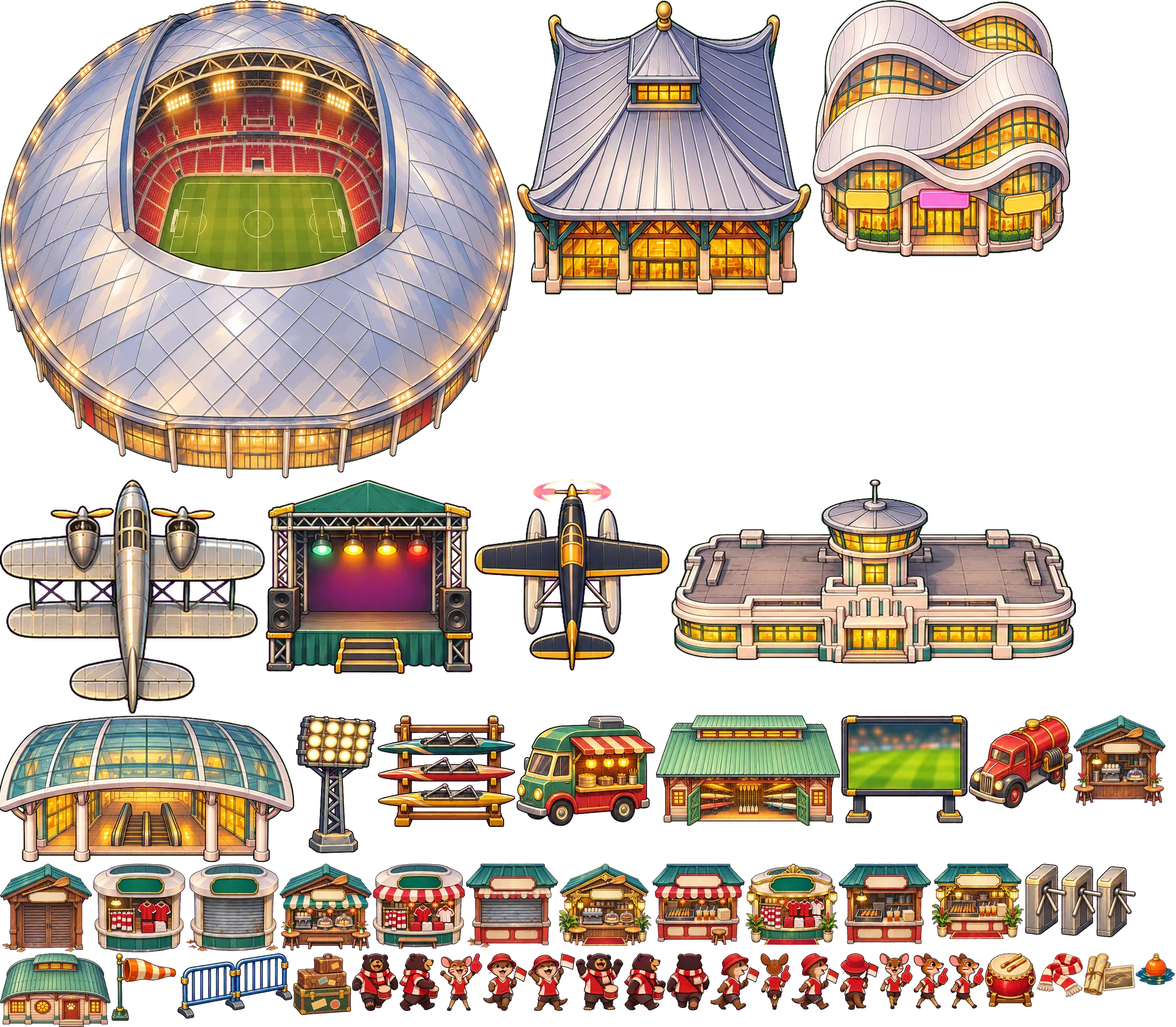
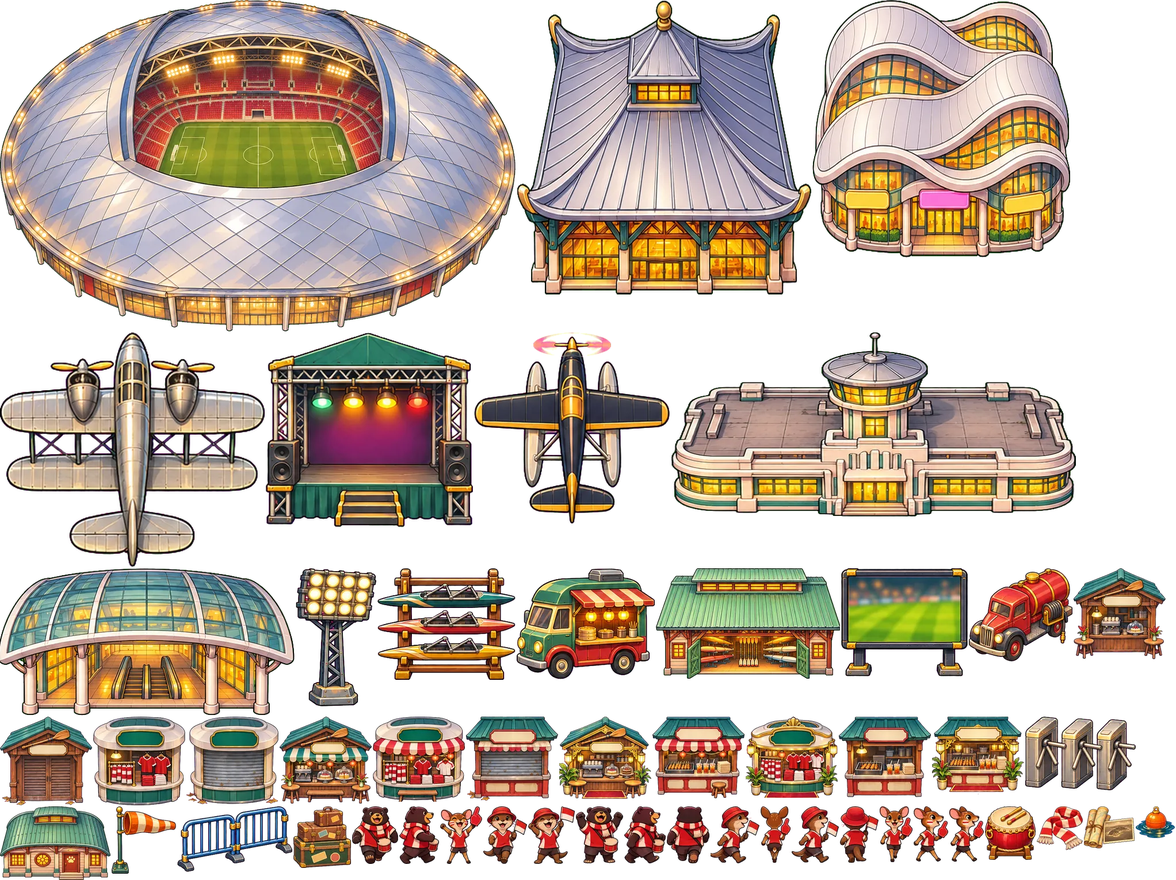
WIP Jade Street pass 18: the map no longer keeps district art decoded; dome packed at its footprint; hero acts in the job tier

diff --git a/lib/jade-art.ts b/lib/jade-art.ts
@@ -1,7 +1,7 @@
 // Generated by scripts/jade-art.py from the Codex paintings; do not edit by hand.
 // FRAMES: name -> [atlas, x, y, w, h] in atlas pixels (2 px per world unit). TEXTURES: seamless 256 px ground tiles.
 export const ATLASES = ['atlas-dora', 'atlas-enzo', 'atlas-dora2', 'atlas-enzo2', 'atlas-south', 'atlas-south2', 'atlas-empire', 'atlas-empire2', 'atlas-city2', 'atlas-far', 'atlas-far2', 'atlas-east', 'atlas-resort', 'atlas-resort2', 'atlas-east2', 'atlas-isle', 'atlas-isle2', 'atlas-land', 'atlas-cast-isle', 'atlas-cast-east', 'atlas-cast-resort', 'atlas-cast-far', 'atlas-cast-south', 'atlas-cast-town', 'atlas-city', 'atlas-rides', 'atlas-gear', 'atlas-jobs', 'atlas-aware', 'atlas-faces-isle', 'atlas-faces-east', 'atlas-faces-resort', 'atlas-faces-far', 'atlas-faces-south', 'atlas-faces-town', 'atlas-set', 'atlas-set2', 'atlas-folk', 'atlas-ui', 'atlas-sg', 'atlas-sg2', 'atlas-mg', 'atlas-props2', 'atlas-props', 'atlas-rides15', 'atlas-act16', 'atlas-cast16-far', 'atlas-cast16-south', 'atlas-stands16', 'atlas-lake16', 'atlas-ubin', 'atlas-boars', 'atlas-cast-ubin', 'atlas-act17', 'atlas-ui17', 'atlas-kallang', 'atlas-cast-kallang', 'atlas-act18', 'atlas-ui18'] as const;
-export const ATLAS_SIZE: Record<string, [number, number]> = {'atlas-ui18': [996, 128], 'atlas-act18': [1508, 120], 'atlas-cast-kallang': [2048, 648], 'atlas-kallang': [2044, 1786], 'atlas-ui17': [978, 128], 'atlas-act17': [1945, 239], 'atlas-cast-ubin': [2028, 774], 'atlas-boars': [2008, 229], 'atlas-ubin': [2019, 936], 'atlas-lake16': [864, 562], 'atlas-stands16': [1944, 333], 'atlas-cast16-south': [1423, 256], 'atlas-cast16-far': [1393, 256], 'atlas-act16': [1402, 113], 'atlas-rides15': [2048, 529], 'atlas-dora': [2048, 558], 'atlas-enzo': [2048, 558], 'atlas-dora2': [2048, 946], 'atlas-enzo2': [2048, 938], 'atlas-south': [2048, 1932], 'atlas-south2': [2048, 840], 'atlas-empire': [2048, 465], 'atlas-empire2': [2048, 1738], 'atlas-city2': [2048, 1928], 'atlas-far': [2048, 2448], 'atlas-far2': [2048, 2434], 'atlas-east': [2048, 1608], 'atlas-resort': [2048, 1092], 'atlas-resort2': [2048, 360], 'atlas-east2': [2048, 768], 'atlas-isle': [2048, 1802], 'atlas-isle2': [2048, 1135], 'atlas-land': [2048, 2308], 'atlas-cast-isle': [2048, 251], 'atlas-cast-east': [2048, 243], 'atlas-cast-resort': [2048, 145], 'atlas-cast-far': [2048, 267], 'atlas-cast-south': [2048, 234], 'atlas-cast-town': [2048, 1001], 'atlas-city': [2048, 4240], 'atlas-rides': [2048, 382], 'atlas-gear': [2048, 568], 'atlas-jobs': [2048, 1256], 'atlas-aware': [2048, 400], 'atlas-faces-isle': [2048, 514], 'atlas-faces-east': [2048, 772], 'atlas-faces-resort': [2048, 256], 'atlas-faces-far': [2048, 772], 'atlas-faces-south': [2048, 514], 'atlas-faces-town': [2048, 2814], 'atlas-set': [2048, 515], 'atlas-set2': [2048, 2406], 'atlas-folk': [2048, 2370], 'atlas-ui': [2048, 1793], 'atlas-sg': [2048, 1280], 'atlas-sg2': [2048, 398], 'atlas-mg': [2048, 1031], 'atlas-props2': [2048, 1474], 'atlas-props': [2048, 2074]};
+export const ATLAS_SIZE: Record<string, [number, number]> = {'atlas-ui18': [996, 128], 'atlas-act18': [1508, 120], 'atlas-cast-kallang': [2048, 648], 'atlas-kallang': [2044, 1530], 'atlas-ui17': [978, 128], 'atlas-act17': [1945, 239], 'atlas-cast-ubin': [2028, 774], 'atlas-boars': [2008, 229], 'atlas-ubin': [2019, 936], 'atlas-lake16': [864, 562], 'atlas-stands16': [1944, 333], 'atlas-cast16-south': [1423, 256], 'atlas-cast16-far': [1393, 256], 'atlas-act16': [1402, 113], 'atlas-rides15': [2048, 529], 'atlas-dora': [2048, 558], 'atlas-enzo': [2048, 558], 'atlas-dora2': [2048, 946], 'atlas-enzo2': [2048, 938], 'atlas-south': [2048, 1932], 'atlas-south2': [2048, 840], 'atlas-empire': [2048, 465], 'atlas-empire2': [2048, 1738], 'atlas-city2': [2048, 1928], 'atlas-far': [2048, 2448], 'atlas-far2': [2048, 2434], 'atlas-east': [2048, 1608], 'atlas-resort': [2048, 1092], 'atlas-resort2': [2048, 360], 'atlas-east2': [2048, 768], 'atlas-isle': [2048, 1802], 'atlas-isle2': [2048, 1135], 'atlas-land': [2048, 2308], 'atlas-cast-isle': [2048, 251], 'atlas-cast-east': [2048, 243], 'atlas-cast-resort': [2048, 145], 'atlas-cast-far': [2048, 267], 'atlas-cast-south': [2048, 234], 'atlas-cast-town': [2048, 1001], 'atlas-city': [2048, 4240], 'atlas-rides': [2048, 382], 'atlas-gear': [2048, 568], 'atlas-jobs': [2048, 1256], 'atlas-aware': [2048, 400], 'atlas-faces-isle': [2048, 514], 'atlas-faces-east': [2048, 772], 'atlas-faces-resort': [2048, 256], 'atlas-faces-far': [2048, 772], 'atlas-faces-south': [2048, 514], 'atlas-faces-town': [2048, 2814], 'atlas-set': [2048, 515], 'atlas-set2': [2048, 2406], 'atlas-folk': [2048, 2370], 'atlas-ui': [2048, 1793], 'atlas-sg': [2048, 1280], 'atlas-sg2': [2048, 398], 'atlas-mg': [2048, 1031], 'atlas-props2': [2048, 1474], 'atlas-props': [2048, 2074]};
 export const FRAMES: Record<string, [number, number, number, number, number]> = {
   'angpao': [43, 784, 2018, 44, 34],
   'atom': [5, 316, 432, 140, 168],
@@ -2503,56 +2503,56 @@ export const FRAMES: Record<string, [number, number, number, number, number]> = 
   'mi-tower': [54, 384, 0, 102, 128],
   'mi-wayang': [54, 488, 0, 125, 128],
   'pin-boar': [54, 615, 0, 101, 128],
-  'biz-hubsatay-0': [55, 810, 1502, 160, 146],
-  'biz-hubsatay-1': [55, 1458, 1502, 160, 140],
-  'biz-hubsatay-2': [55, 1134, 1502, 160, 142],
-  'biz-hubsatay-3': [55, 1620, 1502, 160, 135],
-  'biz-rowcafe-0': [55, 0, 1502, 160, 154],
-  'biz-rowcafe-1': [55, 1866, 1244, 160, 158],
-  'biz-rowcafe-2': [55, 486, 1502, 160, 151],
-  'biz-rowcafe-3': [55, 972, 1502, 160, 143],
-  'biz-wavekiosk-0': [55, 324, 1502, 160, 152],
-  'biz-wavekiosk-1': [55, 162, 1502, 160, 154],
-  'biz-wavekiosk-2': [55, 648, 1502, 160, 148],
-  'biz-wavekiosk-3': [55, 1296, 1502, 160, 141],
-  'folk-fanbear-down': [55, 612, 1658, 80, 100],
-  'folk-fanbear-hop': [55, 1001, 1658, 82, 99],
-  'folk-fanbear-side-0': [55, 1085, 1658, 72, 99],
-  'folk-fanbear-side-1': [55, 694, 1658, 69, 100],
-  'folk-fanbear-up': [55, 1159, 1658, 74, 99],
-  'folk-fankancil-down': [55, 1529, 1658, 57, 97],
-  'folk-fankancil-hop': [55, 765, 1658, 73, 100],
-  'folk-fankancil-side-0': [55, 1588, 1658, 60, 96],
-  'folk-fankancil-side-1': [55, 1650, 1658, 60, 96],
-  'folk-fankancil-up': [55, 1322, 1658, 52, 98],
-  'folk-fanotter-down': [55, 840, 1658, 76, 100],
-  'folk-fanotter-hop': [55, 918, 1658, 81, 100],
-  'folk-fanotter-side-0': [55, 1235, 1658, 85, 99],
-  'folk-fanotter-side-1': [55, 1376, 1658, 82, 98],
-  'folk-fanotter-up': [55, 1460, 1658, 67, 98],
-  'kal-airport': [55, 1166, 834, 704, 320],
-  'kal-barrier': [55, 308, 1658, 200, 114],
-  'kal-boathouse': [55, 1140, 1244, 320, 192],
-  'kal-bowser': [55, 1684, 1244, 180, 162],
-  'kal-buoy': [55, 1974, 1658, 68, 55],
-  'kal-charts': [55, 1884, 1658, 88, 73],
-  'kal-drum': [55, 1712, 1658, 88, 93],
-  'kal-floodlight': [55, 514, 1244, 140, 240],
-  'kal-foodtruck': [55, 898, 1244, 240, 193],
+  'biz-hubsatay-0': [55, 810, 1246, 160, 146],
+  'biz-hubsatay-1': [55, 1458, 1246, 160, 140],
+  'biz-hubsatay-2': [55, 1134, 1246, 160, 142],
+  'biz-hubsatay-3': [55, 1620, 1246, 160, 135],
+  'biz-rowcafe-0': [55, 0, 1246, 160, 154],
+  'biz-rowcafe-1': [55, 1866, 988, 160, 158],
+  'biz-rowcafe-2': [55, 486, 1246, 160, 151],
+  'biz-rowcafe-3': [55, 972, 1246, 160, 143],
+  'biz-wavekiosk-0': [55, 324, 1246, 160, 152],
+  'biz-wavekiosk-1': [55, 162, 1246, 160, 154],
+  'biz-wavekiosk-2': [55, 648, 1246, 160, 148],
+  'biz-wavekiosk-3': [55, 1296, 1246, 160, 141],
+  'folk-fanbear-down': [55, 612, 1402, 80, 100],
+  'folk-fanbear-hop': [55, 1001, 1402, 82, 99],
+  'folk-fanbear-side-0': [55, 1085, 1402, 72, 99],
+  'folk-fanbear-side-1': [55, 694, 1402, 69, 100],
+  'folk-fanbear-up': [55, 1159, 1402, 74, 99],
+  'folk-fankancil-down': [55, 1529, 1402, 57, 97],
+  'folk-fankancil-hop': [55, 765, 1402, 73, 100],
+  'folk-fankancil-side-0': [55, 1588, 1402, 60, 96],
+  'folk-fankancil-side-1': [55, 1650, 1402, 60, 96],
+  'folk-fankancil-up': [55, 1322, 1402, 52, 98],
+  'folk-fanotter-down': [55, 840, 1402, 76, 100],
+  'folk-fanotter-hop': [55, 918, 1402, 81, 100],
+  'folk-fanotter-side-0': [55, 1235, 1402, 85, 99],
+  'folk-fanotter-side-1': [55, 1376, 1402, 82, 98],
+  'folk-fanotter-up': [55, 1460, 1402, 67, 98],
+  'kal-airport': [55, 1166, 578, 704, 320],
+  'kal-barrier': [55, 308, 1402, 200, 114],
+  'kal-boathouse': [55, 1140, 988, 320, 192],
+  'kal-bowser': [55, 1684, 988, 180, 162],
+  'kal-buoy': [55, 1974, 1402, 68, 55],
+  'kal-charts': [55, 1884, 1402, 88, 73],
+  'kal-drum': [55, 1712, 1402, 88, 93],
+  'kal-floodlight': [55, 514, 988, 140, 240],
+  'kal-foodtruck': [55, 898, 988, 240, 193],
   'kal-indoor': [55, 898, 0, 512, 512],
   'kal-mall': [55, 1412, 0, 448, 448],
-  'kal-plane': [55, 0, 834, 460, 408],
-  'kal-scarf': [55, 1802, 1658, 80, 76],
-  'kal-screen': [55, 1462, 1244, 220, 188],
-  'kal-seaplane': [55, 824, 834, 340, 332],
-  'kal-shells': [55, 656, 1244, 240, 194],
-  'kal-stadium': [55, 0, 0, 896, 832],
-  'kal-stage': [55, 462, 834, 360, 339],
-  'kal-suitcases': [55, 510, 1658, 100, 107],
-  'kal-turnstile': [55, 1782, 1502, 192, 128],
-  'kal-windsock': [55, 194, 1658, 112, 117],
-  'kallang-stn': [55, 0, 1244, 512, 256],
-  'safe-kallang': [55, 0, 1658, 192, 128],
+  'kal-plane': [55, 0, 578, 460, 408],
+  'kal-scarf': [55, 1802, 1402, 80, 76],
+  'kal-screen': [55, 1462, 988, 220, 188],
+  'kal-seaplane': [55, 824, 578, 340, 332],
+  'kal-shells': [55, 656, 988, 240, 194],
+  'kal-stadium': [55, 0, 0, 896, 576],
+  'kal-stage': [55, 462, 578, 360, 339],
+  'kal-suitcases': [55, 510, 1402, 100, 107],
+  'kal-turnstile': [55, 1782, 1246, 192, 128],
+  'kal-windsock': [55, 194, 1402, 112, 117],
+  'kallang-stn': [55, 0, 988, 512, 256],
+  'safe-kallang': [55, 0, 1402, 192, 128],
   'face-biru': [56, 0, 0, 238, 256],
   'face-biru-cross': [56, 240, 0, 236, 256],
   'face-biru-happy': [56, 478, 0, 237, 256],
@@ -5163,7 +5163,7 @@ export const FILL: Record<string, number> = {
   'kal-screen': 0.821,
   'kal-seaplane': 0.426,
   'kal-shells': 0.627,
-  'kal-stadium': 0.781,
+  'kal-stadium': 0.782,
   'kal-stage': 0.865,
   'kal-suitcases': 0.786,
   'kal-turnstile': 0.761,
@@ -5238,4 +5238,4 @@ export const FILL: Record<string, number> = {
 export const TEXTURES = ['road', 'walk', 'plaza', 'grass', 'canal', 'plank', 'temple', 'sea', 'dock', 'neon', 'path', 'cobble', 'xway', 'hdb', 'rubber', 'granite', 'deck', 'bay', 'india', 'glam', 'sand', 'resort', 'lagoon', 'fort', 'katong', 'orchard', 'tarmac', 'cycle', 'jewel', 'changi', 'tiong', 'quay', 'jurong', 'garden', 'dirt', 'kampong', 'mud', 'forest', 'quarry', 'rock', 'hub', 'prom', 'apron', 'basin'] as const;
 export const PLAIN: Record<string, [number, number]> = {'bg-stall-kallang': [1536, 1024], 'bg-chapter-11': [1536, 1024], 'bg-stall-pulau': [1536, 1024], 'bg-chapter-10': [1536, 1024], 'bg-title': [1536, 1024], 'bg-mg-lock': [1280, 853], 'bg-mg-wire': [1280, 853], 'bg-mg-switch': [1280, 853], 'bg-mg-wok': [1280, 853], 'bg-mg-board': [1280, 853], 'bg-mg-haggle': [1280, 853], 'bg-mg-kopi': [1280, 853], 'bg-mg-safe': [1280, 853], 'bg-map-paper': [1024, 683], 'bg-loading': [1280, 853], 'bg-stall-market': [1280, 853], 'bg-stall-temple': [1280, 853], 'bg-stall-canal': [1280, 853], 'bg-stall-docks': [1280, 853], 'bg-stall-arcade': [1280, 853], 'bg-story-1': [1280, 853], 'bg-story-2': [1280, 853], 'bg-story-3': [1280, 853], 'bg-story-4': [1280, 853], 'bg-chapter-1': [1280, 853], 'bg-chapter-2': [1280, 853], 'bg-chapter-3': [1280, 853], 'bg-chapter-4': [1280, 853], 'bg-chapter-5': [1280, 853], 'bg-end-1': [1280, 853], 'bg-end-2': [1280, 853], 'bg-end-3': [1280, 853], 'bg-gadget-shop': [1280, 853], 'bg-chapter-6': [1280, 853], 'bg-end-4': [1280, 853], 'bg-mrt-ride': [1280, 853], 'bg-stall-heartland': [1280, 853], 'bg-stall-bay': [1280, 853], 'bg-chapter-7': [1280, 853], 'bg-end-5': [1280, 853], 'bg-cable-ride': [1280, 853], 'bg-stall-india': [1280, 853], 'bg-stall-glam': [1280, 853], 'bg-stall-resort': [1280, 853], 'bg-empire': [1280, 853], 'bg-chapter-8': [1280, 853], 'bg-end-6': [1280, 853], 'bg-stall-katong': [1280, 853], 'bg-stall-orchard': [1280, 853], 'bg-stall-changi': [1280, 853], 'bg-chapter-9': [1280, 853], 'bg-end-7': [1280, 853], 'bg-stall-tiong': [1280, 853], 'bg-stall-quay': [1280, 853], 'bg-stall-jurong': [1280, 853]};
 /** a content hash of every file in public/art/jade-street/, sent as ?v= so the art can be cached for a year */
-export const VER: Record<string, string> = {'bg-stall-kallang': '5f185fe36b', 'bg-chapter-11': '12fb44814b', 'tex-basin': 'c9c1f2261e', 'tex-apron': '323078ac62', 'tex-prom': '5611f4129c', 'tex-hub': '7886be57ab', 'atlas-ui18': '43e4150895', 'atlas-act18': '51b4e5b9eb', 'atlas-cast-kallang': '178f7a33a4', 'atlas-kallang': 'eb33cac7c5', 'bg-stall-pulau': 'fb3d104962', 'bg-chapter-10': '8f7697f148', 'tex-rock': 'e14a0fa8a2', 'tex-quarry': 'bf95ef713f', 'tex-forest': '86584e2a5c', 'tex-mud': '05f8765082', 'tex-kampong': 'b8131c6fd2', 'tex-dirt': '12ab24649e', 'atlas-ui17': 'dd53c38d34', 'atlas-act17': 'da2d18204c', 'atlas-cast-ubin': '42901e7b58', 'atlas-boars': 'c1ea6f3cc5', 'atlas-ubin': '489a9a7865', 'atlas-lake16': 'b9863c6890', 'atlas-stands16': '73a81e072c', 'atlas-cast16-south': 'b9dd583554', 'atlas-cast16-far': '066ca3c6b6', 'atlas-act16': '2bb55cf0ae', 'atlas-rides15': 'fe909ed773', 'atlas-aware': '6c05ff527e', 'atlas-cast-east': '6993b3868c', 'atlas-cast-far': 'be68f6fb67', 'atlas-cast-isle': 'd6137093d7', 'atlas-cast-resort': '04a51d1d1f', 'atlas-cast-south': '73c3edc72c', 'atlas-cast-town': 'e3e8483794', 'atlas-city': '9d3e5e0e1e', 'atlas-city2': 'a7705a2a8c', 'atlas-dora': 'b9ec3e274b', 'atlas-dora2': '43fff573e2', 'atlas-east': 'c9c950a198', 'atlas-east2': 'b28ab30119', 'atlas-empire': '356b94eb1d', 'atlas-empire2': 'c5f49739fe', 'atlas-enzo': 'bedcb9aa04', 'atlas-enzo2': '698fbcee4a', 'atlas-faces-east': '993c08866d', 'atlas-faces-far': '0b5b95dbbb', 'atlas-faces-isle': '65004845ea', 'atlas-faces-resort': 'f4133d9046', 'atlas-faces-south': '6fcdc446e1', 'atlas-faces-town': '93652e9860', 'atlas-far': '83c801daa9', 'atlas-far2': 'cd584caccd', 'atlas-folk': 'b236b797c5', 'atlas-gear': 'e7536b9f8c', 'atlas-isle': '4fecc0ca2d', 'atlas-isle2': 'b4715aee8a', 'atlas-jobs': 'c3b00cb13a', 'atlas-land': 'e7dd7e81b0', 'atlas-mg': '64874661f8', 'atlas-props': '512513e99b', 'atlas-props2': 'e91c1da3d2', 'atlas-resort': '8bee077388', 'atlas-resort2': 'cadf754c98', 'atlas-rides': 'd0cce2048a', 'atlas-set': 'a3616aef03', 'atlas-set2': 'bdfe1854db', 'atlas-sg': '11d257b248', 'atlas-sg2': 'b7bd370468', 'atlas-south': 'dc4ba8a7e4', 'atlas-south2': '4964999b2d', 'atlas-ui': '39055c0ebe', 'bg-cable-ride': '0018d7f206', 'bg-chapter-1': '39e95b70e2', 'bg-chapter-2': 'c6eae4e23b', 'bg-chapter-3': 'e473dea1ed', 'bg-chapter-4': '2d8f49eb39', 'bg-chapter-5': '46e0c818bf', 'bg-chapter-6': '1cadb76848', 'bg-chapter-7': '151661fa10', 'bg-chapter-8': '8de0d54485', 'bg-chapter-9': 'fedfc885e5', 'bg-empire': '9059bb5b25', 'bg-end-1': '41d3829fd8', 'bg-end-2': '7a6979ac8b', 'bg-end-3': '0f098b8291', 'bg-end-4': '6e947828ba', 'bg-end-5': 'f23fd9f478', 'bg-end-6': 'f2e14dcedb', 'bg-end-7': '9811890a23', 'bg-gadget-shop': '9e43ee5ca2', 'bg-loading': '74ca740d3f', 'bg-map-paper': '196bbb2f61', 'bg-mg-board': '58c9ac51f6', 'bg-mg-haggle': '0be12eb299', 'bg-mg-kopi': '2d37fe15be', 'bg-mg-lock': '54f79c464e', 'bg-mg-safe': 'd992489153', 'bg-mg-switch': 'dfb6f981ad', 'bg-mg-wire': '2fb8c43ff3', 'bg-mg-wok': '5ec96291c1', 'bg-mrt-ride': '2c3fcf70b2', 'bg-stall-arcade': '4069370f26', 'bg-stall-bay': 'ead1c42631', 'bg-stall-canal': '9fa618250b', 'bg-stall-changi': 'f23566cda1', 'bg-stall-docks': 'd2757a418e', 'bg-stall-glam': '0318c8fa67', 'bg-stall-heartland': '8e2d25dae4', 'bg-stall-india': '85a7343c38', 'bg-stall-jurong': '610c6341bd', 'bg-stall-katong': '3458759355', 'bg-stall-market': '2ee08500da', 'bg-stall-orchard': 'e36c5aefb2', 'bg-stall-quay': 'c920af8561', 'bg-stall-resort': '2be8064c28', 'bg-stall-temple': '8d770b42ad', 'bg-stall-tiong': '7dc0dd1982', 'bg-story-1': '495a2313c5', 'bg-story-2': '38dc31aa0a', 'bg-story-3': 'f0d40a8b40', 'bg-story-4': '9e776c0031', 'bg-title': 'f7074c001b', 'tex-bay': '2b2ead15a6', 'tex-canal': '984c616bc3', 'tex-changi': 'd0d210aa4d', 'tex-cobble': 'ffa35bac89', 'tex-cycle': '4e8d4943bd', 'tex-deck': 'feaa49ab7e', 'tex-dock': '56cedf773c', 'tex-fort': '6cfe70f213', 'tex-garden': '8de5353f74', 'tex-glam': '12aa23af36', 'tex-granite': 'b5d611ddf5', 'tex-grass': '2b40c03b43', 'tex-hdb': 'cfe16c39ff', 'tex-india': '322ec75d2a', 'tex-jewel': 'f413902539', 'tex-jurong': 'dce899eb4a', 'tex-katong': '5ca9995443', 'tex-lagoon': '7194978be9', 'tex-neon': '7cefd7035d', 'tex-orchard': '71c2f97876', 'tex-path': '7185e5fd49', 'tex-plank': '39a9bfb3c3', 'tex-plaza': 'd818f31ee6', 'tex-quay': '7b61a601e8', 'tex-resort': '9323ea7a70', 'tex-road': 'df2a879824', 'tex-rubber': 'af7f675c91', 'tex-sand': 'f2b51bd2fa', 'tex-sea': '33c4a10f2d', 'tex-tarmac': 'e44e0bef07', 'tex-temple': '2d4d31a220', 'tex-tiong': '53a74b805f', 'tex-walk': '7059e943c6', 'tex-xway': 'b394d5c6d0', 'ui-btn-jade': '0575db29d5', 'ui-btn-red': 'b38696fe12', 'ui-lantern-off': 'aa12a882a8', 'ui-lantern-on': 'ae946067fe', 'ui-map-frame': 'ebc4710313', 'ui-plaque-jade': 'e6217f6c1b', 'ui-plaque-red': 'a8a020c2b2', 'ui-ring': 'f0ab8b644c'};
+export const VER: Record<string, string> = {'bg-stall-kallang': '5f185fe36b', 'bg-chapter-11': '12fb44814b', 'tex-basin': 'c9c1f2261e', 'tex-apron': '323078ac62', 'tex-prom': '5611f4129c', 'tex-hub': '7886be57ab', 'atlas-ui18': '43e4150895', 'atlas-act18': '51b4e5b9eb', 'atlas-cast-kallang': '178f7a33a4', 'atlas-kallang': 'fb54dd73ba', 'bg-stall-pulau': 'fb3d104962', 'bg-chapter-10': '8f7697f148', 'tex-rock': 'e14a0fa8a2', 'tex-quarry': 'bf95ef713f', 'tex-forest': '86584e2a5c', 'tex-mud': '05f8765082', 'tex-kampong': 'b8131c6fd2', 'tex-dirt': '12ab24649e', 'atlas-ui17': 'dd53c38d34', 'atlas-act17': 'da2d18204c', 'atlas-cast-ubin': '42901e7b58', 'atlas-boars': 'c1ea6f3cc5', 'atlas-ubin': '489a9a7865', 'atlas-lake16': 'b9863c6890', 'atlas-stands16': '73a81e072c', 'atlas-cast16-south': 'b9dd583554', 'atlas-cast16-far': '066ca3c6b6', 'atlas-act16': '2bb55cf0ae', 'atlas-rides15': 'fe909ed773', 'atlas-aware': '6c05ff527e', 'atlas-cast-east': '6993b3868c', 'atlas-cast-far': 'be68f6fb67', 'atlas-cast-isle': 'd6137093d7', 'atlas-cast-resort': '04a51d1d1f', 'atlas-cast-south': '73c3edc72c', 'atlas-cast-town': 'e3e8483794', 'atlas-city': '9d3e5e0e1e', 'atlas-city2': 'a7705a2a8c', 'atlas-dora': 'b9ec3e274b', 'atlas-dora2': '43fff573e2', 'atlas-east': 'c9c950a198', 'atlas-east2': 'b28ab30119', 'atlas-empire': '356b94eb1d', 'atlas-empire2': 'c5f49739fe', 'atlas-enzo': 'bedcb9aa04', 'atlas-enzo2': '698fbcee4a', 'atlas-faces-east': '993c08866d', 'atlas-faces-far': '0b5b95dbbb', 'atlas-faces-isle': '65004845ea', 'atlas-faces-resort': 'f4133d9046', 'atlas-faces-south': '6fcdc446e1', 'atlas-faces-town': '93652e9860', 'atlas-far': '83c801daa9', 'atlas-far2': 'cd584caccd', 'atlas-folk': 'b236b797c5', 'atlas-gear': 'e7536b9f8c', 'atlas-isle': '4fecc0ca2d', 'atlas-isle2': 'b4715aee8a', 'atlas-jobs': 'c3b00cb13a', 'atlas-land': 'e7dd7e81b0', 'atlas-mg': '64874661f8', 'atlas-props': '512513e99b', 'atlas-props2': 'e91c1da3d2', 'atlas-resort': '8bee077388', 'atlas-resort2': 'cadf754c98', 'atlas-rides': 'd0cce2048a', 'atlas-set': 'a3616aef03', 'atlas-set2': 'bdfe1854db', 'atlas-sg': '11d257b248', 'atlas-sg2': 'b7bd370468', 'atlas-south': 'dc4ba8a7e4', 'atlas-south2': '4964999b2d', 'atlas-ui': '39055c0ebe', 'bg-cable-ride': '0018d7f206', 'bg-chapter-1': '39e95b70e2', 'bg-chapter-2': 'c6eae4e23b', 'bg-chapter-3': 'e473dea1ed', 'bg-chapter-4': '2d8f49eb39', 'bg-chapter-5': '46e0c818bf', 'bg-chapter-6': '1cadb76848', 'bg-chapter-7': '151661fa10', 'bg-chapter-8': '8de0d54485', 'bg-chapter-9': 'fedfc885e5', 'bg-empire': '9059bb5b25', 'bg-end-1': '41d3829fd8', 'bg-end-2': '7a6979ac8b', 'bg-end-3': '0f098b8291', 'bg-end-4': '6e947828ba', 'bg-end-5': 'f23fd9f478', 'bg-end-6': 'f2e14dcedb', 'bg-end-7': '9811890a23', 'bg-gadget-shop': '9e43ee5ca2', 'bg-loading': '74ca740d3f', 'bg-map-paper': '196bbb2f61', 'bg-mg-board': '58c9ac51f6', 'bg-mg-haggle': '0be12eb299', 'bg-mg-kopi': '2d37fe15be', 'bg-mg-lock': '54f79c464e', 'bg-mg-safe': 'd992489153', 'bg-mg-switch': 'dfb6f981ad', 'bg-mg-wire': '2fb8c43ff3', 'bg-mg-wok': '5ec96291c1', 'bg-mrt-ride': '2c3fcf70b2', 'bg-stall-arcade': '4069370f26', 'bg-stall-bay': 'ead1c42631', 'bg-stall-canal': '9fa618250b', 'bg-stall-changi': 'f23566cda1', 'bg-stall-docks': 'd2757a418e', 'bg-stall-glam': '0318c8fa67', 'bg-stall-heartland': '8e2d25dae4', 'bg-stall-india': '85a7343c38', 'bg-stall-jurong': '610c6341bd', 'bg-stall-katong': '3458759355', 'bg-stall-market': '2ee08500da', 'bg-stall-orchard': 'e36c5aefb2', 'bg-stall-quay': 'c920af8561', 'bg-stall-resort': '2be8064c28', 'bg-stall-temple': '8d770b42ad', 'bg-stall-tiong': '7dc0dd1982', 'bg-story-1': '495a2313c5', 'bg-story-2': '38dc31aa0a', 'bg-story-3': 'f0d40a8b40', 'bg-story-4': '9e776c0031', 'bg-title': 'f7074c001b', 'tex-bay': '2b2ead15a6', 'tex-canal': '984c616bc3', 'tex-changi': 'd0d210aa4d', 'tex-cobble': 'ffa35bac89', 'tex-cycle': '4e8d4943bd', 'tex-deck': 'feaa49ab7e', 'tex-dock': '56cedf773c', 'tex-fort': '6cfe70f213', 'tex-garden': '8de5353f74', 'tex-glam': '12aa23af36', 'tex-granite': 'b5d611ddf5', 'tex-grass': '2b40c03b43', 'tex-hdb': 'cfe16c39ff', 'tex-india': '322ec75d2a', 'tex-jewel': 'f413902539', 'tex-jurong': 'dce899eb4a', 'tex-katong': '5ca9995443', 'tex-lagoon': '7194978be9', 'tex-neon': '7cefd7035d', 'tex-orchard': '71c2f97876', 'tex-path': '7185e5fd49', 'tex-plank': '39a9bfb3c3', 'tex-plaza': 'd818f31ee6', 'tex-quay': '7b61a601e8', 'tex-resort': '9323ea7a70', 'tex-road': 'df2a879824', 'tex-rubber': 'af7f675c91', 'tex-sand': 'f2b51bd2fa', 'tex-sea': '33c4a10f2d', 'tex-tarmac': 'e44e0bef07', 'tex-temple': '2d4d31a220', 'tex-tiong': '53a74b805f', 'tex-walk': '7059e943c6', 'tex-xway': 'b394d5c6d0', 'ui-btn-jade': '0575db29d5', 'ui-btn-red': 'b38696fe12', 'ui-lantern-off': 'aa12a882a8', 'ui-lantern-on': 'ae946067fe', 'ui-map-frame': 'ebc4710313', 'ui-plaque-jade': 'e6217f6c1b', 'ui-plaque-red': 'a8a020c2b2', 'ui-ring': 'f0ab8b644c'};

diff --git a/lib/jade-scene.ts b/lib/jade-scene.ts
@@ -5,7 +5,7 @@
 // districts, dust and sparkles; game feel (shake, hit-stop, debris, speed lines) is in lib/jade-juice.ts and the set
 // pieces, the finale and the business stalls are drawn by lib/jade-setdraw.ts. Every picture is a Codex painting from the atlases in public/art/jade-street/.
 import { FRAMES, ATLASES, VER } from './jade-art.js';
-import { EAGER, ART_BUDGET, decodedBytes } from './jade-load.js';
+import { EAGER, ART_BUDGET, decodedBytes, tierOf } from './jade-load.js';
 import { T, W, H, G, OW, CT_H, EAST_X0, EAST_SPLIT, FAR_X0, FAR_SPLIT, CHANGI_X0, SOUTH_X0, SOUTH_X1, TIONG_X0, QUAY_X0, UBIN_X0, UBIN_X1, UBIN_Y0, GROUND_NAMES, F_ROOF, districtAt, type City, type District } from './jade-city.js';
 import { unmvT } from './jade-layout.js';
 import { F_XWAY } from './jade-island.js';
@@ -58,6 +58,9 @@ export const artMissing = new Set<string>();
 let missed = false;
 /** the maps paint the whole island: a picture missing there is not asked for (it would pull in every district) */
 let quietMiss = false;
+/** a district's own atlases (not the core, the job tier or the mini-games'): the maps' painting does not count as using
+ *  one, or painting the minimap every few seconds would keep every district it has seen decoded (the memory soak) */
+const ZONED = ATLASES.map(a => !['core', 'job', 'mini'].includes(tierOf(a)));
 /** was a picture missing since the last call (for a canvas painted outside the scene, such as the painted map) */
 export const takeMissed = () => { const m = missed; missed = false; return m; };
 /** the minimap's map: strip width (px), columns painted at a time, and ms of painting a frame */
@@ -428,7 +431,7 @@ export class Scene {
   dropChunk(k: number) { const v = this.chunks.get(k); if (v) { freeCanvas(v.c); this.chunks.delete(k); } }
   /** forget every ground chunk and the minimap's map (their canvases freed) */
   dropAll() { for (const k of [...this.chunks.keys()]) this.dropChunk(k); this.dropMap(); }
-  dropMap() { for (const st of this.mapStrips) freeCanvas(st.c); this.mapStrips = []; if (this.mapNext) for (const st of this.mapNext.strips) freeCanvas(st.c); this.mapNext = null; }
+  dropMap() { for (const st of this.mapStrips) freeCanvas(st.c); this.mapStrips = []; this.mapArtUp = new Set(); if (this.mapNext) for (const st of this.mapNext.strips) freeCanvas(st.c); this.mapNext = null; }
   /** paint tiles (tx0..tx0+n) of the city's ground layer into x (already transformed to world units) */
   paintGround(x: CanvasRenderingContext2D, tx0: number, ty0: number, nw: number, nh: number, simple = false) {
     quietMiss = simple; try { this.paintGround1(x, tx0, ty0, nw, nh, simple); } finally { quietMiss = false; }
@@ -516,7 +519,9 @@ export class Scene {
     for (const b of c.buildings) {
       if (b.x + b.w < tx0 - 1 || b.x > tx0 + nw + 1 || b.y + b.h < ty0 - 1 || b.y > ty0 + nh + 1) continue;
       const s2 = src(b.sprite);
-      if (s2) x.drawImage(s2[0], s2[1], s2[2], s2[3], s2[4], b.x * T - 2, b.y * T - 4, b.w * T + 4, b.h * T + 6);
+      if (s2) { x.drawImage(s2[0], s2[1], s2[2], s2[3], s2[4], b.x * T - 2, b.y * T - 4, b.w * T + 4, b.h * T + 6); if (this.mapPainting) this.mapArt.add(b); }
+      // (on the map, a building painted last time whose district's art has since been let go keeps last time's picture)
+      else if (simple && this.mapKeep(x, b)) { if (this.mapPainting) this.mapArt.add(b); }
       else { x.fillStyle = '#5a3040'; x.fillRect(b.x * T, b.y * T, b.w * T, b.h * T); }
     }
     x.shadowColor = 'rgba(0,0,0,0)'; x.shadowBlur = 0; x.shadowOffsetX = 0; x.shadowOffsetY = 0;
@@ -524,11 +529,24 @@ export class Scene {
 
   // ── the whole-city map (minimap and the full map screen use it)
   mapMiss = false; mapT = 0;
+  /** the buildings drawn with their picture on the map being painted, and on the one up now */
+  mapArt = new Set<object>(); mapArtUp = new Set<object>(); mapPainting = false;
+  /** copy a building's patch from the map up now, if it was painted there with its picture (x is a new strip's context,
+   *  in world units); false when it was not */
+  mapKeep(x: CanvasRenderingContext2D, b: { x: number; y: number; w: number; h: number }): boolean {
+    if (!this.mapArtUp.has(b) || !this.mapStrips.length) return false;
+    const s = this.mapK / T, wx0 = b.x * T - 2, wy0 = b.y * T - 4, wx1 = wx0 + b.w * T + 4, wy1 = wy0 + b.h * T + 6;
+    for (const st of this.mapStrips) {
+      const sx0 = st.x0 / s, sx1 = (st.x0 + st.c.width) / s, a0 = Math.max(wx0, sx0), a1 = Math.min(wx1, sx1); if (a1 <= a0) continue;
+      x.drawImage(st.c, a0 * s - st.x0, wy0 * s, (a1 - a0) * s, (wy1 - wy0) * s, a0, wy0, a1 - a0, wy1 - wy0);
+    }
+    return true;
+  }
   /** paint the next few columns of the map (about MAP_BUDGET ms a frame); swaps it in once complete. True when ready */
   mapWork(): boolean {
     const k = this.mapK;
     if (!this.mapNext && this.mapStrips.length) return true;
-    if (!this.mapNext) this.mapNext = { strips: [], col: 0, miss: false };
+    if (!this.mapNext) { this.mapNext = { strips: [], col: 0, miss: false }; this.mapArt = new Set(); }
     const nb = this.mapNext, t0 = now(), SW = Math.floor(MAP_STRIP / k); // tiles a strip
     while (nb.col < W && now() - t0 < MAP_BUDGET) {
       const si = Math.floor(nb.col / SW);
@@ -537,12 +555,12 @@ export class Scene {
       // each strip also paints one column past its end, so neighbouring strips meet without a seam
       const n1 = nb.col + n === (si + 1) * SW && nb.col + n < W ? n + 1 : n;
       missed = false;
-      if (x) { x.setTransform(k / T, 0, 0, k / T, -st.x0, 0); this.paintGround(x, nb.col, 0, n1, H, true); } else missed = true;
+      if (x) { x.setTransform(k / T, 0, 0, k / T, -st.x0, 0); this.mapPainting = true; try { this.paintGround(x, nb.col, 0, n1, H, true); } finally { this.mapPainting = false; } } else missed = true;
       nb.miss = nb.miss || missed; nb.col += n;
     }
     if (nb.col < W) return this.mapStrips.length > 0;
     for (const st of this.mapStrips) freeCanvas(st.c);
-    this.mapStrips = nb.strips; this.mapMiss = nb.miss; this.mapT = this.t; this.mapNext = null;
+    this.mapStrips = nb.strips; this.mapMiss = nb.miss; this.mapT = this.t; this.mapNext = null; this.mapArtUp = this.mapArt;
     return true;
   }
 
@@ -557,7 +575,7 @@ export class Scene {
       for (const v of this.chunks.values()) if (v.miss) v.s = -9; // repainted in place (drawn as it was until then)
     }
     // (the old map stays up while the new one is painted)
-    if (this.mapStrips.length && this.mapMiss && !this.mapNext && this.t - this.mapT > 4 && this.artSeen === artGen) this.mapNext = { strips: [], col: 0, miss: false };
+    if (this.mapStrips.length && this.mapMiss && !this.mapNext && this.t - this.mapT > 4 && this.artSeen === artGen) { this.mapNext = { strips: [], col: 0, miss: false }; this.mapArt = new Set(); }
     const p = w.p; const ride = p.ride;
     this.juice.tick(dt);
     if (ride) this.juice.trail(dt, p.boostT > 0, ride.b.x, ride.b.y, ride.b.h, 'v-' + ride.kind);

diff --git a/scripts/jade-art18.py b/scripts/jade-art18.py
@@ -6,10 +6,10 @@ other entry (the full rebuild needs every older sheet, so it is not run for this
                       properties' stands: the 'kallang' zone
   atlas-cast-kallang  the four chapter-eleven givers' bodies and portraits: the 'kallang' zone
   atlas-act18         both heroes' match-night actions (squeezing through a crowd, shoved, the ticket, the Kallang Wave,
-                      looking up at the sky): the 'kallang' zone (every one of them happens there)
+                      looking up at the sky): the job tier, as every hero frame is core or job art
   atlas-ui18          map icons, the black-swan pin and four round icons: the job tier
 plus four seamless ground textures (hub, prom, apron, basin) and two paintings (bg-chapter-11 and bg-stall-kallang). Every
-atlas here is cropped to what it holds; the first three stream with their zone (lib/jade-load.ts), so none of them adds to
+atlas here is cropped to what it holds; the first two stream with their zone (lib/jade-load.ts), so none of them adds to
 the paintings decoded before play. Re-runnable: a second run replaces these atlases' own entries.
 """
 import ast, hashlib, re, sys
@@ -67,7 +67,7 @@ def rect(atlas, file, names, gx, gy, sizes):
 # ── Kallang's buildings (footprints in lib/jade-kallang.ts); the dome is its own sheet
 rect('atlas-kallang', 'kallang-bld', ['kal-airport', 'kal-indoor', 'kal-mall', 'kal-boathouse', 'safe-kallang', 'kallang-stn'], 3, 2,
      {'kal-airport': (11, 5), 'kal-indoor': (8, 8), 'kal-mall': (7, 7), 'kal-boathouse': (5, 3), 'safe-kallang': (3, 2), 'kallang-stn': (8, 4)})
-rect('atlas-kallang', 'kallang-dome', ['kal-stadium'], 1, 1, {'kal-stadium': (14, 13)})
+rect('atlas-kallang', 'kallang-dome', ['kal-stadium'], 1, 1, {'kal-stadium': (14, 9)})
 # ── props (world widths as lib/jade-kallang.ts draws them; the seaplane and the biplane are drawn by lib/jade-kallangdraw.ts)
 each('atlas-kallang', 'props18', ['kal-shells', 'kal-drum', 'kal-buoy', 'kal-seaplane', 'kal-plane', 'kal-windsock', 'kal-bowser', 'kal-suitcases',
      'kal-turnstile', 'kal-floodlight', 'kal-barrier', 'kal-stage', 'kal-foodtruck', 'kal-screen', 'kal-scarf', 'kal-charts'], 4, 4,
